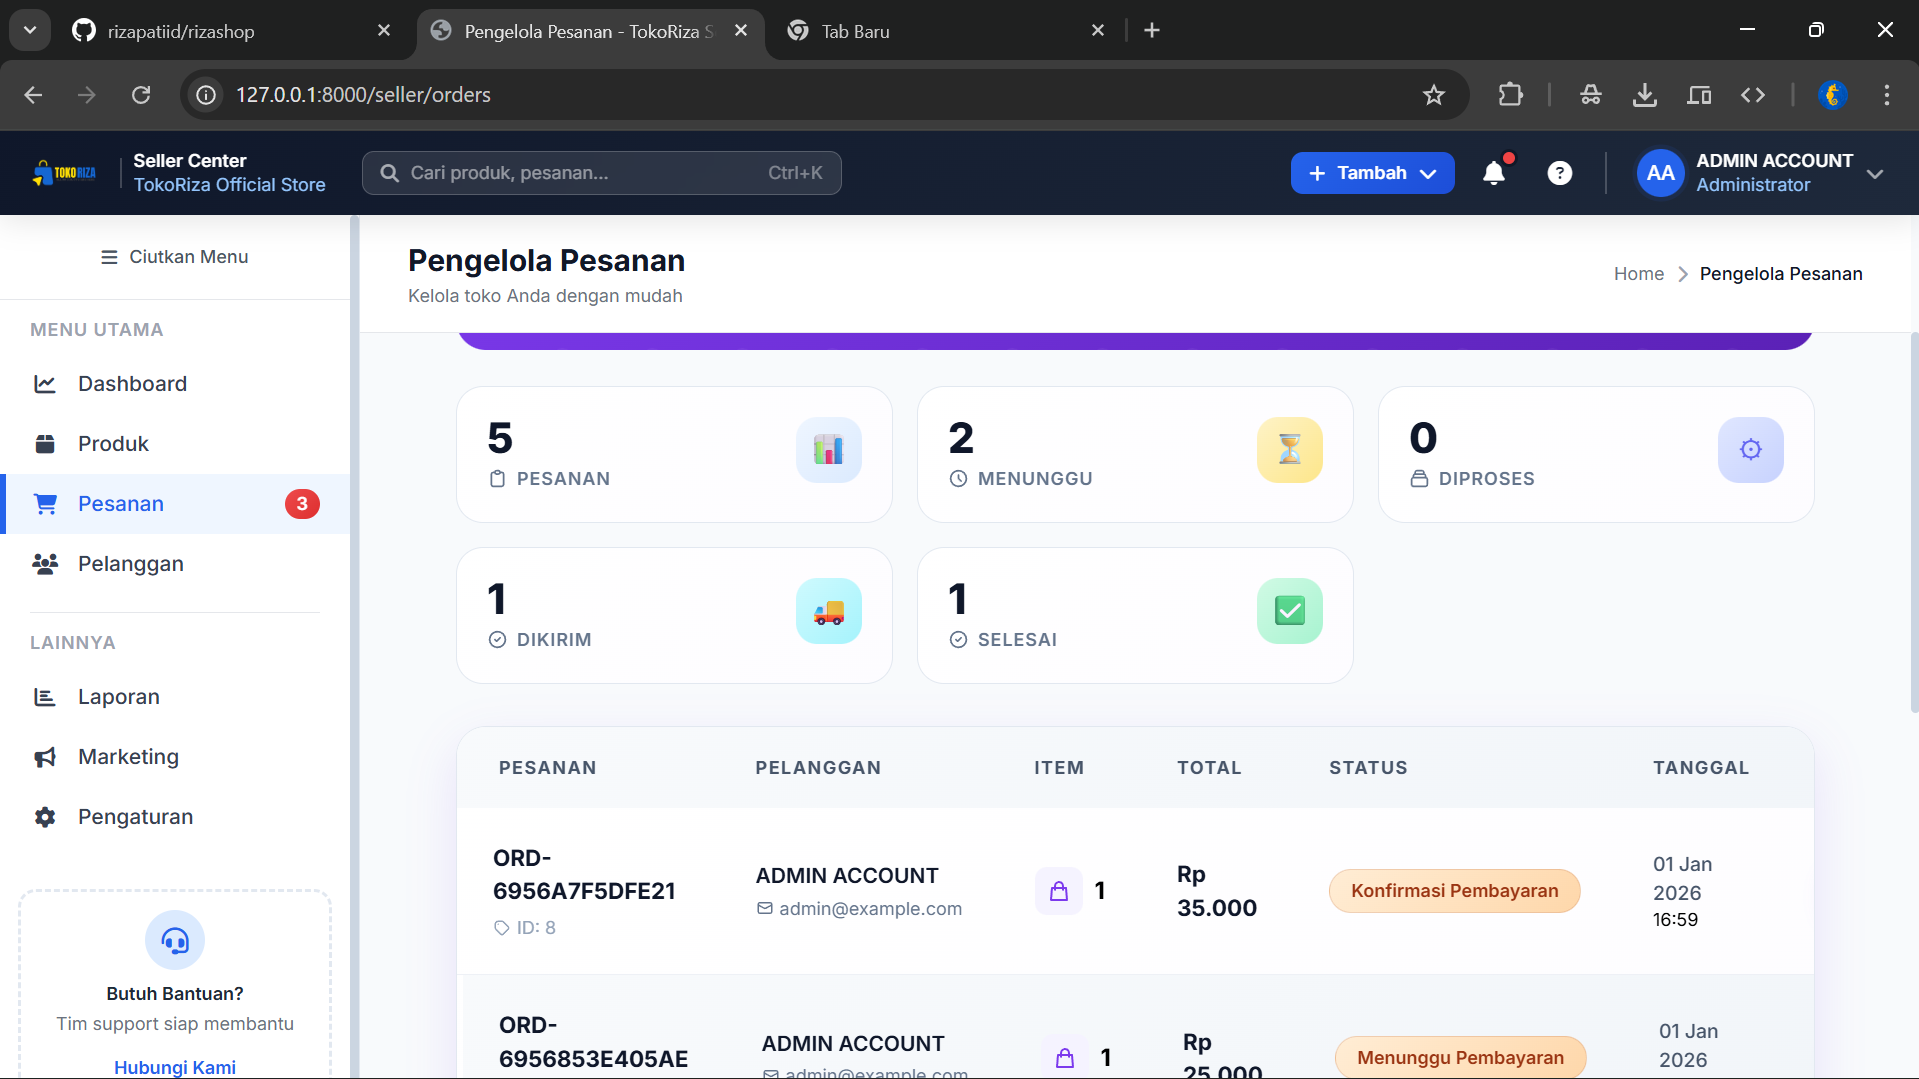
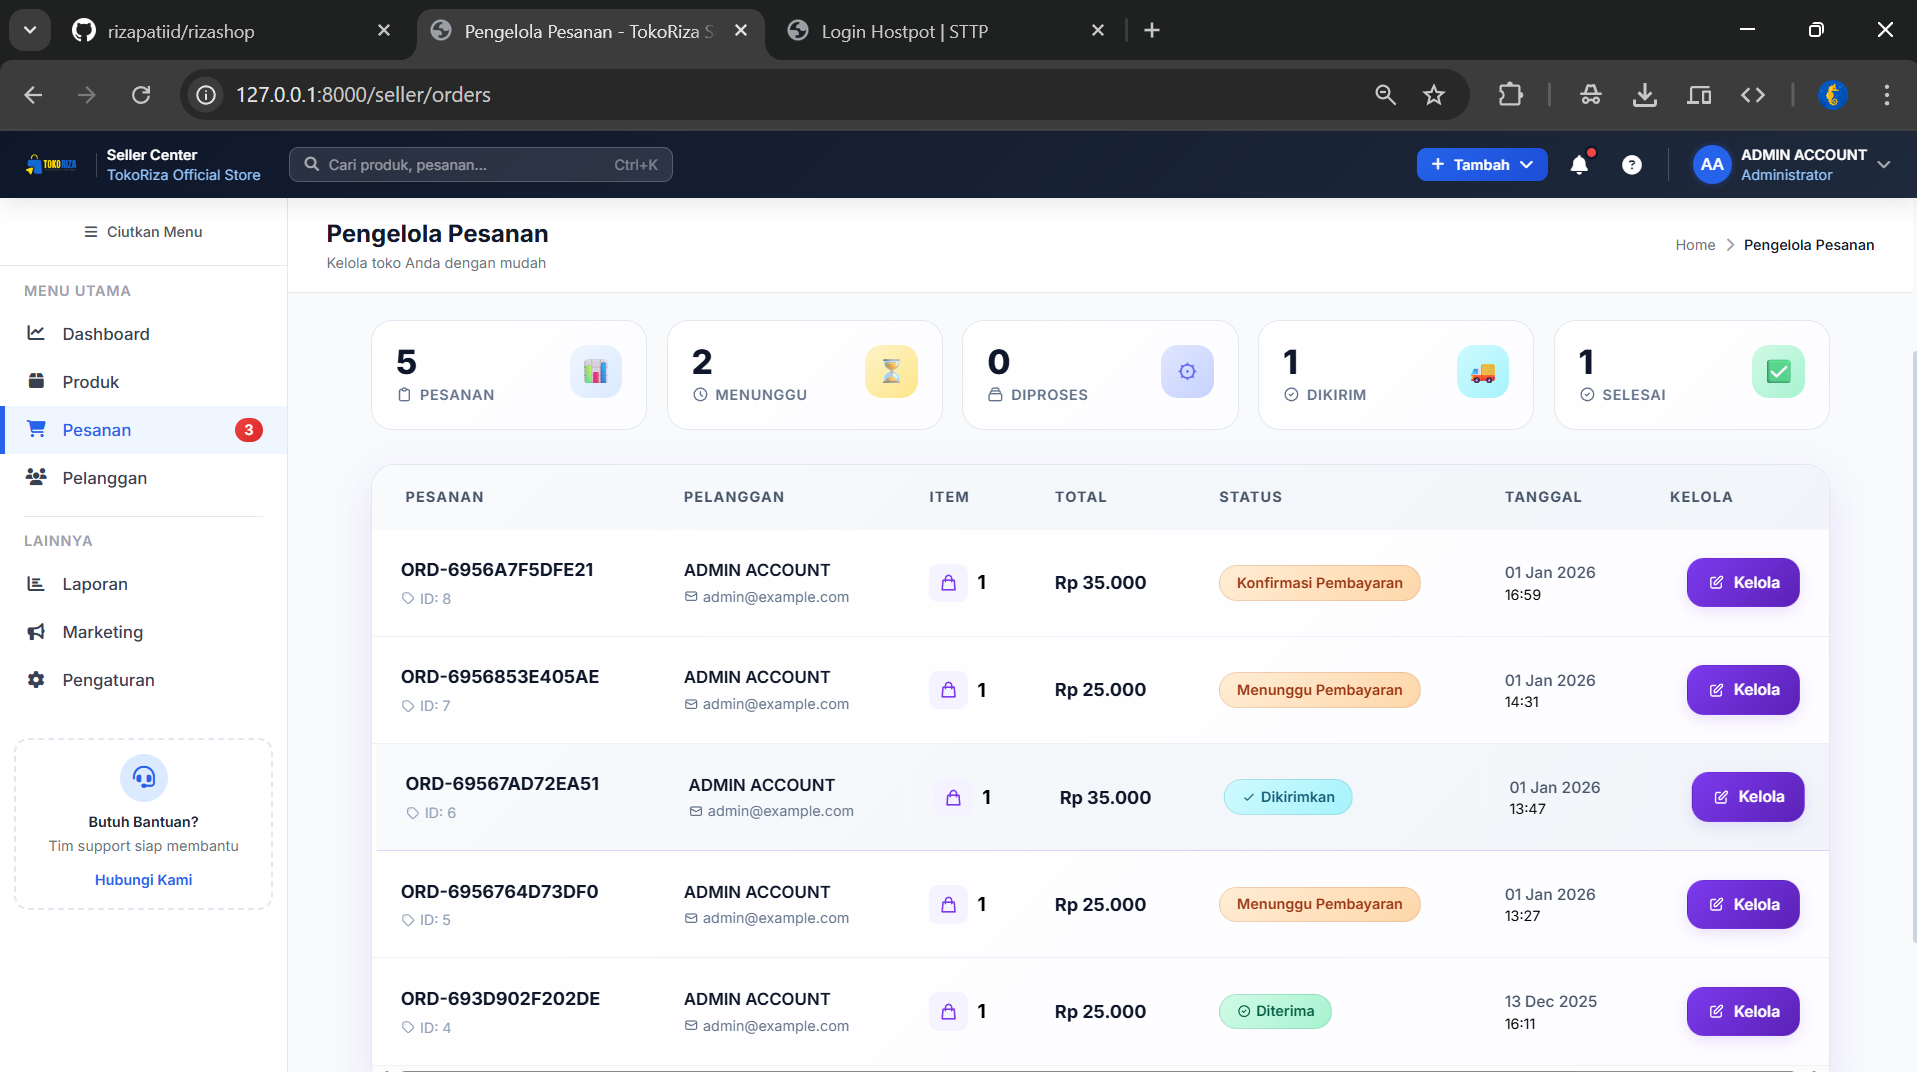
menambah keterangan

diff --git a/README.md b/README.md
@@ -1,92 +1,20 @@
-# 🛒 Laravel Marketplace Project
+# 🛒 TOKORIZA Project
 
-Aplikasi **Marketplace berbasis Laravel** dengan sistem **multi-role** yang dirancang untuk **Seller (Admin)** dan **Pelanggan (User)**.  
-Saat ini pengembangan difokuskan pada **Seller & Pelanggan**, dengan rencana pengembangan lanjutan untuk role tambahan dan fitur pendukung.
+Aplikasi **Marketplace berbasis Laravel** dengan sistem **multi-role** untuk **Seller (Admin)** dan **Pelanggan (User)**.  
+Project ini masih dalam tahap **pengembangan aktif** dan akan terus dikembangkan dari sisi fitur dan UI.
 
 ---
 
 ## 🚀 Status Pengembangan
-- ✅ Seller (Admin) – Aktif
-- ✅ Pelanggan (User) – Aktif
-- ⏳ Admin Utama – Perencanaan
-- ⏳ Live Chat Customer Service – Pengembangan
-- ⏳ Custom UI User – Pengembangan
+- ✅ Seller (Admin)
+- ✅ Pelanggan (User)
+- ⏳ Admin Utama (rencana)
+- ⏳ Live Chat Customer Service (rencana)
+- ⏳ Custom UI (belum dicustom ini saya utaman sistemnya berjalan lancar dahulu baru kita lanjut custom ui)
 
 ---
 
 ## 🔐 Authentication
-Fitur autentikasi dengan **UI custom**:
-- Login
-- Register
-- Forget Password
-
----
-
-## 📊 Dashboard
-Dashboard dibedakan berdasarkan role pengguna:
-
-### 👤 Pelanggan (User)
-- Route: `/dashboard` *(rencana akan menjadi `/`)*
-
-### 🛍 Seller (Admin)
-- Route: `/masterdashboard` *(rencana akan menjadi `/seller`)*
-
----
-
-## 👤 Profile Page (Custom)
-Route: `/account`  
-Tampilan profile **akan dibedakan** antara Seller & Pelanggan.
-
-### Fitur Profile:
-- Edit foto profil
-- Edit data profil
-- Ubah password
-- Hapus akun
-
-### 📍 Manajemen Alamat *(Sudah Fix)*:
-- Tambah alamat
-- Edit alamat
-- Hapus alamat
-- Set alamat utama
-
-### ❓ Bantuan:
-- Hubungi CS *(Live Chat – dalam pengembangan)*
-
----
-
-## 🛠 Dashboard Seller (Admin)
-
-### 📦 Manajemen Produk  
-Route: `/products`  
-> Sistem sudah berjalan, UI masih dalam pengembangan
-
-- Tambah produk
-- Edit produk
-- Hapus produk
-
-### 👥 Manajemen Pengguna  
-Route: `/users`  
-> Sistem sudah berjalan, UI masih dalam pengembangan
-
-- Tambah pengguna
-- Edit pengguna
-- Hapus pengguna
-
----
-
-## 🛒 Dashboard Pelanggan (User)
-> Fitur sudah berjalan, UI masih default
-
-- Melihat produk (`/produk`)
-- Tambah ke keranjang
-- Keranjang (`/keranjang`)
-- Checkout (`/checkout`)
-
----
-
-## 📸 Screenshot UI
-
-### 🔐 Authentication
 <p align="center">
   <img src="screenshots/login.png" width="45%">
   <img src="screenshots/register.png" width="45%">
@@ -94,45 +22,113 @@ Route: `/users`
 
 ---
 
-### 👤 Dashboard Pelanggan
+## 👤 Account & Profile
 <p align="center">
-  <img src="screenshots/dashboard-user.png" width="80%">
+  <img src="screenshots/account.png" width="45%">
+  <img src="screenshots/editprofile.png" width="45%">
+</p>
+
+<p align="center">
+  <img src="screenshots/ubahfoto.png" width="45%">
+  <img src="screenshots/hapusakun.png" width="45%">
 </p>
 
 ---
 
-### 🛍 Dashboard Seller (Admin)
+## 📍 Manajemen Alamat
+<p align="center">
+  <img src="screenshots/alamat.png" width="45%">
+  <img src="screenshots/addalamat.png" width="45%">
+</p>
+
+<p align="center">
+  <img src="screenshots/editalamat.png" width="45%">
+</p>
+
+---
+
+## ❓ Bantuan & Kontak
+<p align="center">
+  <img src="screenshots/bantuan.png" width="45%">
+  <img src="screenshots/contactus.png" width="45%">
+</p>
+
+---
+
+## 🛍 Dashboard Seller (Admin)
 <p align="center">
   <img src="screenshots/dashboard-seller.png" width="80%">
 </p>
 
 ---
 
-### 📦 Manajemen Produk
+## 📦 Manajemen Produk
 <p align="center">
   <img src="screenshots/products.png" width="80%">
 </p>
 
-### 📦 kelola Pengguna
+<p align="center">
+  <img src="screenshots/addproducts.png" width="80%">
+</p>
+
+<p align="center">
+  <img src="screenshots/editproducts.png" width="80%">
+</p>
+
+---
+
+## 👥 Manajemen Pengguna
 <p align="center">
   <img src="screenshots/pengguna.png" width="80%">
 </p>
 
-### 📦 Pesanan
+---
+
+## 📦 Manajemen Pesanan
 <p align="center">
   <img src="screenshots/pesanan.png" width="80%">
 </p>
+
+<p align="center">
+  <img src="screenshots/detailpesanan.png" width="80%">
+</p>
+
 ---
 
-### 🛒 Keranjang & Checkout
+## 👤 Dashboard Pelanggan (Public)
+<p align="center">
+  <img src="screenshots/dashboarduser.png" width="80%">
+</p>
+
+---
+
+## 🛒 Produk & Transaksi
+<p align="center">
+  <img src="screenshots/produkpage.png" width="45%">
+  <img src="screenshots/detailproduk.png" width="45%">
+</p>
+
 <p align="center">
   <img src="screenshots/cart.png" width="45%">
   <img src="screenshots/checkout.png" width="45%">
 </p>
 
+<p align="center">
+  <img src="screenshots/cekpembayaran.png" width="45%">
+  <img src="screenshots/pembayaran.png" width="45%">
+</p>
+
 ---
 
-## 🧰 Teknologi yang Digunakan
+## 📜 Riwayat Pesanan
+<p align="center">
+  <img src="screenshots/riwayatpesanan.png" width="45%">
+  <img src="screenshots/detailriwayatpesanan.png" width="45%">
+</p>
+
+---
+
+## 🧰 Teknologi
 - Laravel
 - Blade Template
 - MySQL
@@ -143,31 +139,18 @@ Route: `/users`
 
 <p align="center">
   <a href="https://laravel.com" target="_blank">
-    <img src="https://raw.githubusercontent.com/laravel/art/master/logo-lockup/5%20SVG/2%20CMYK/1%20Full%20Color/laravel-logolockup-cmyk-red.svg" width="400" alt="Laravel Logo">
+    <img src="https://raw.githubusercontent.com/laravel/art/master/logo-lockup/5%20SVG/2%20CMYK/1%20Full%20Color/laravel-logolockup-cmyk-red.svg" width="400">
   </a>
 </p>
 
 <p align="center">
-  <a href="https://github.com/laravel/framework/actions">
-    <img src="https://github.com/laravel/framework/workflows/tests/badge.svg" alt="Build Status">
-  </a>
-  <a href="https://packagist.org/packages/laravel/framework">
-    <img src="https://img.shields.io/packagist/dt/laravel/framework" alt="Total Downloads">
-  </a>
-  <a href="https://packagist.org/packages/laravel/framework">
-    <img src="https://img.shields.io/packagist/v/laravel/framework" alt="Latest Version">
-  </a>
-  <a href="https://packagist.org/packages/laravel/framework">
-    <img src="https://img.shields.io/packagist/l/laravel/framework" alt="License">
-  </a>
+  <img src="https://github.com/laravel/framework/workflows/tests/badge.svg">
+  <img src="https://img.shields.io/packagist/dt/laravel/framework">
+  <img src="https://img.shields.io/packagist/v/laravel/framework">
+  <img src="https://img.shields.io/packagist/l/laravel/framework">
 </p>
 
 ---
 
-## 📌 Catatan
-Project ini masih dalam tahap **pengembangan aktif** dan akan terus dikembangkan dari sisi fitur maupun tampilan UI.
-
----
-
 ## 📄 License
-Project ini menggunakan lisensi **MIT**.
+MIT License
